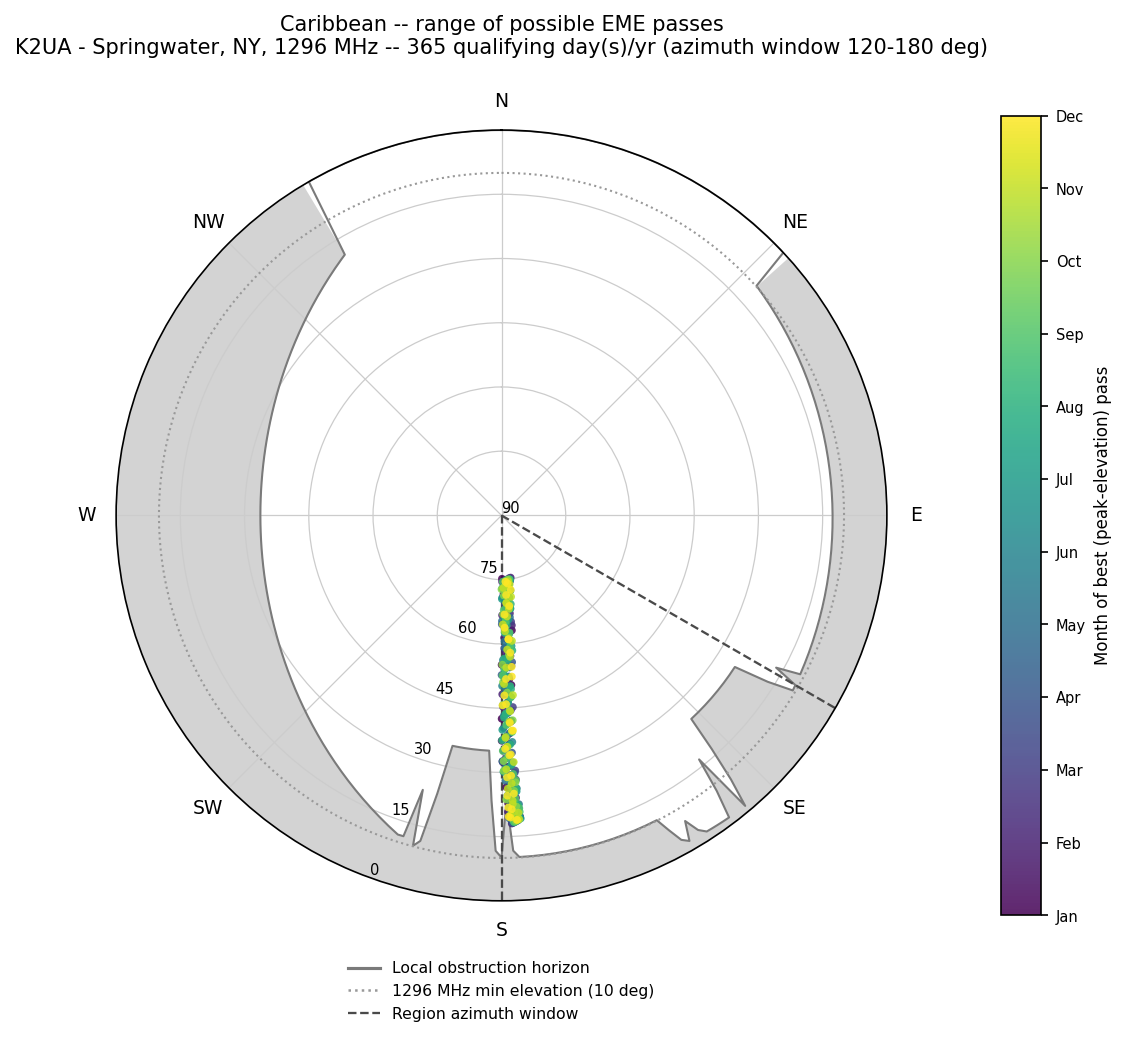
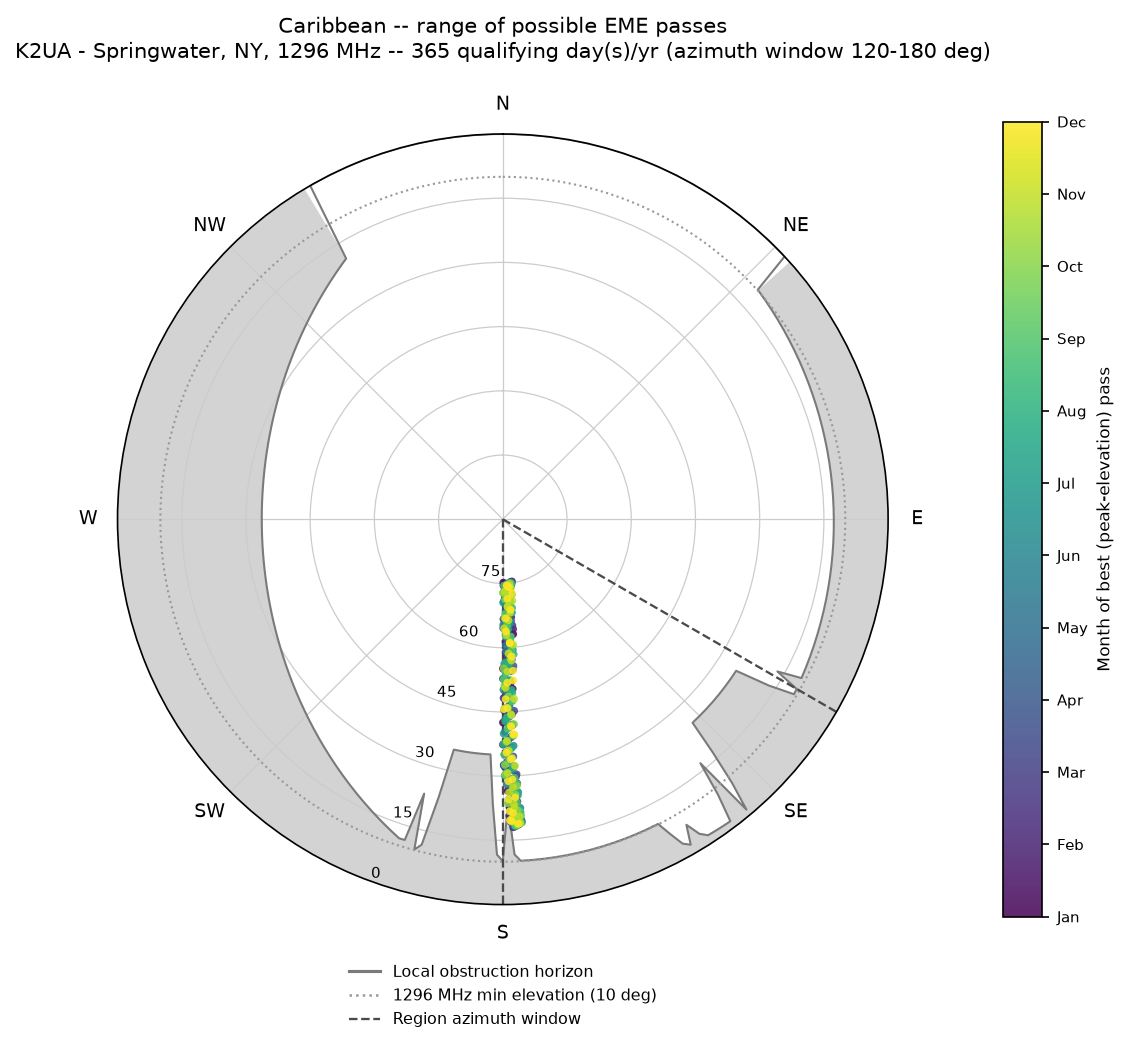
Add human-readable CLI summary as default output (v2.0.3)
Previously the CLI always printed the full JSON results blob to the
terminal, which was confusing when running without --output. Now:

- Plain terminal runs print a short format_summary() summary (site,
  band, passes/region, wind loading, RF, recommendations).
- --json forces the full JSON to stdout.
- Output is still auto-detected as JSON when stdout is piped/redirected
  (sys.stdout.isatty() check), so scripting/piping behavior is unchanged.
- --output <file> still saves full JSON and also prints the summary.

Added test_format_summary_contains_key_numbers_not_raw_json regression
test and documented the three output modes in README ("Reading the CLI
Output").

Also includes docs/plots/*.png regenerated locally (matplotlib
re-render, no underlying data change -- docs/monthly_conditions.md is
byte-identical).

diff --git a/src/eme_calculator.py b/src/eme_calculator.py
@@ -6,6 +6,7 @@ Modular library for calculating optimal EME dish placement
 
 import math
 import json
+import sys
 from datetime import datetime, timedelta
 from typing import Dict, List, Tuple, Optional
 import ephem
@@ -396,6 +397,56 @@ class EMECalculator:
         return recommendations
 
 
+def format_summary(results: Dict) -> str:
+    """Short, human-readable rendering of a results dict (see main()) --
+    the default terminal output. Pass --json or --output for the full
+    machine-readable JSON instead."""
+    loc = results['location']
+    lines = []
+    lines.append("EME Dish Siting Calculator -- Results Summary")
+    lines.append("=" * 48)
+    lines.append(f"Site: {loc['grid_square']}  "
+                  f"({loc['latitude']:.6f}, {loc['longitude']:.6f})  "
+                  f"{loc['elevation_m']:.1f} m ASL")
+    if loc['antenna_offset_east_ft'] or loc['antenna_offset_north_ft']:
+        lines.append(f"Antenna offset: {loc['antenna_offset_east_ft']:+.0f}ft E, "
+                      f"{loc['antenna_offset_north_ft']:+.0f}ft N of the profile location")
+    lines.append(f"Band: {results['band_mhz']} MHz   "
+                  f"Min. usable elevation: {results['min_elevation_deg']:.0f}°")
+    lines.append("")
+    lines.append("Annual EME opportunities by region:")
+    lines.append(f"  {'Region':<16}{'Passes/yr':>11}{'Avg peak el.':>15}")
+    for region, opp in results['eme_opportunities'].items():
+        avg_el = f"{opp['avg_peak_elevation_deg']:.1f}°" if opp['annual_passes'] else "--"
+        lines.append(f"  {region:<16}{opp['annual_passes']:>11}{avg_el:>15}")
+    lines.append("")
+    wl = results['wind_loading']
+    lines.append(f"Wind loading: {wl['force_lbf']:.1f} lbf at {wl['wind_speed_mph']:.0f} mph "
+                  f"(dish area {wl['dish_area_m2']:.2f} m²)")
+    rf = results['rf_considerations']
+    lines.append(f"RF ({rf['band_name']}, {rf['frequency_mhz']} MHz): "
+                  f"wavelength {rf['wavelength_cm']:.1f}cm, "
+                  f"tree sensitivity {rf['tree_sensitivity']}, "
+                  f"rain fade est. {rf['estimated_rain_fade_db']:.2f} dB")
+    if results['tree_blockage'].get('tree_height_ft', 0) > 0:
+        tb = results['tree_blockage']
+        lines.append(f"Single-direction tree blockage estimate: {tb['blockage_angle_deg']:.1f}° "
+                      f"({tb['tree_height_ft']:.0f}ft trees at {tb['tree_distance_ft']:.0f}ft)")
+    rec = results['recommendations']
+    if rec['reasoning'] or rec['technical_requirements']:
+        lines.append("")
+        lines.append("Recommendations:")
+        for item in rec['reasoning'] + rec['technical_requirements']:
+            lines.append(f"  - {item}")
+    lines.append("")
+    lines.append("Full monthly az/el detail is in this run's data but not shown here --")
+    lines.append("use --json or --output <file>.json for the complete breakdown, or:")
+    lines.append("  python scripts/generate_polar_plots.py --profile <profile> --band "
+                  f"{results['band_mhz']}")
+    lines.append("for polar plots + a monthly conditions table.")
+    return "\n".join(lines)
+
+
 def main():
     """Command line interface"""
     import argparse
@@ -427,7 +478,13 @@ def main():
                                               'the 1st of the current month) -- pin this for '
                                               'reproducible results, since Moon geometry '
                                               'shifts slightly with the exact date range')
-    parser.add_argument('--output', help='Output JSON file')
+    parser.add_argument('--output', help='Save the full results as JSON to this file '
+                                          '(a short summary still prints to the terminal too)')
+    parser.add_argument('--json', action='store_true',
+                         help='Print the full results as JSON to the terminal instead of '
+                              'the human-readable summary (useful for piping into other '
+                              'tools, e.g. `| jq`). Implied automatically if --output is not '
+                              'given and stdout is not a terminal (e.g. when piped/redirected).')
 
     args = parser.parse_args()
 
@@ -493,8 +550,15 @@ def main():
         with open(args.output, 'w') as f:
             json.dump(results, f, indent=2, default=str)
         print(f"Results saved to {args.output}")
-    else:
+        print()
+        print(format_summary(results))
+    elif args.json or not sys.stdout.isatty():
+        # Explicit --json, or stdout is piped/redirected (e.g. `| jq`,
+        # `> file.json`) rather than an interactive terminal -- assume
+        # the full machine-readable dump is wanted, not the summary.
         print(json.dumps(results, indent=2, default=str))
+    else:
+        print(format_summary(results))
 
 
 if __name__ == "__main__":

diff --git a/tests/test_eme_calculator.py b/tests/test_eme_calculator.py
@@ -10,7 +10,7 @@ from datetime import datetime
 sys.path.insert(0, os.path.join(os.path.dirname(__file__), '..', 'src'))
 
 import pytest
-from eme_calculator import EMECalculator
+from eme_calculator import EMECalculator, format_summary
 from terrain import TerrainProfile
 
 PROFILE_PATH = os.path.join(os.path.dirname(__file__), '..',
@@ -59,3 +59,48 @@ def test_maidenhead_roundtrip_reasonable():
     lat, lon = calc.maidenhead_to_latlon('FN12fr46wo')
     assert 42.7 < lat < 42.8
     assert -77.6 < lon < -77.5
+
+
+def test_format_summary_contains_key_numbers_not_raw_json():
+    # Regression test for the CLI-output confusion this fixed: the
+    # default terminal output should be a readable summary, not a JSON
+    # blob -- so it must not look like JSON, and it must mention every
+    # region and the wind loading figure.
+    terrain = TerrainProfile(PROFILE_PATH)
+    calc = EMECalculator(terrain_profile=terrain)
+    calc.setup_observer(terrain.latitude, terrain.longitude, terrain.elevation_ft * 0.3048)
+    start = datetime(2026, 1, 1)
+    daily_passes = calc.calculate_daily_passes(start, frequency_mhz=1296, days=30)
+    opportunities = calc.analyze_eme_opportunities(daily_passes)
+    monthly = calc.monthly_conditions(opportunities)
+    wind_loading = calc.calculate_wind_loading(2.4, 35)
+    rf = calc.calculate_rf_considerations(1296)
+    tree_blockage = calc.calculate_tree_blockage(0, 100)
+    results = {
+        'location': {
+            'grid_square': terrain.profile['grid_square'],
+            'latitude': terrain.latitude, 'longitude': terrain.longitude,
+            'elevation_m': terrain.elevation_ft * 0.3048,
+            'antenna_offset_east_ft': 0.0, 'antenna_offset_north_ft': 0.0,
+        },
+        'band_mhz': 1296,
+        'min_elevation_deg': calc.min_elevation_for_band(1296),
+        'eme_opportunities': {
+            region: {'annual_passes': len(passes),
+                      'avg_peak_elevation_deg': (sum(p['elevation'] for p in passes) / len(passes)
+                                                  if passes else 0)}
+            for region, passes in opportunities.items()
+        },
+        'monthly_conditions': monthly,
+        'wind_loading': wind_loading,
+        'rf_considerations': rf,
+        'tree_blockage': tree_blockage,
+    }
+    results['recommendations'] = calc.generate_recommendations(results)
+
+    summary = format_summary(results)
+
+    assert not summary.strip().startswith('{')
+    for region in EMECalculator.TARGET_REGIONS:
+        assert region in summary
+    assert f"{wind_loading['force_lbf']:.1f}" in summary

diff --git a/README.md b/README.md
@@ -46,6 +46,8 @@ python src/eme_calculator.py --grid FN12fr46 --band 1296
 ```
 The venv only needs creating once. Next time, just `cd` into the project and run `source venv/bin/activate` (or `venv\Scripts\activate` on Windows) again — the dependencies are already installed. Run `deactivate` when you're done. See [Virtual Environment Setup](#virtual-environment-setup) below for more detail, including why `venv/` and `.aws-sam/` never get committed.
 
+Running that last command in a real terminal prints a short human-readable summary (annual pass counts, wind loading, RF notes) — that's the calculator running an analysis and reporting back, not a bug. See [Reading the CLI output](#reading-the-cli-output) below for the other output modes.
+
 ### Analyzing a real site with a directional obstruction profile
 ```bash
 python src/eme_calculator.py \
@@ -53,6 +55,19 @@ python src/eme_calculator.py \
   --band 1296 --dish-diameter 2.4 --wind-speed 35 \
   --start-date 2026-01-01 --days 365
 ```
+This prints the same kind of summary as above, computed from the real obstruction-modeled site instead of a flat-horizon grid square. For the full monthly-by-region breakdown and the plots, use `scripts/generate_polar_plots.py` (see the [Case Study](#example-case-study-k2ua-station-fn12fr46wo) below) rather than trying to read it out of this command's output.
+
+### Reading the CLI output
+
+`src/eme_calculator.py` has three output modes:
+
+| You run it... | You get |
+|---|---|
+| Plainly, in a terminal (no `--output`/`--json`) | A short human-readable summary: pass counts per region, wind loading, RF notes |
+| With `--output results.json` | The summary printed to the terminal **and** the full results (including the monthly-by-region breakdown) saved as JSON to that file |
+| With `--json`, or piped/redirected (e.g. `... \| jq .`, `... > results.json`) | The full results as JSON on stdout, no summary |
+
+The full JSON is what `scripts/generate_polar_plots.py` consumes internally to build the plots and `docs/monthly_conditions.md` — you don't need to read it by hand unless you're scripting against it.
 
 ## Example Case Study: K2UA station, FN12fr46wo
 
@@ -296,6 +311,8 @@ This project is licensed under the MIT License - see the [LICENSE](LICENSE) file
 | 1.2.2 | 2026-08-18 | README revision |
 | **2.0.0** | **2026-08-20** | **Major revision.** Fixed a bug where `analyze_eme_opportunities()` counted every hourly sample within a region's azimuth window as a separate "pass," instead of one pass per calendar day — this let annual pass counts exceed 365 (physically impossible, the Moon rises once/day), which is what produced the case study's impossible 752 Caribbean / 499 South America / 617 Africa passes/year. Added `src/terrain.py`: direction-aware obstruction modeling combining operator-surveyed tree lines/clusters with a USGS EPQS-derived regional terrain floor, plus antenna-offset support for "what if I moved the dish" re-runs. Unified the minimum-usable-elevation threshold between `eme_calculator.py` and `rf_analysis.py` (previously two different hardcoded values, 10° flat vs. band-specific 5°-30°). Replaced the fictional FN12fr46 case study with the real K2UA station (FN12fr46wo), a full obstruction survey, USGS-sourced elevation, and corrected pass counts. Added polar az/el plots (`scripts/generate_polar_plots.py`, `docs/plots/`) and monthly peak-condition az/el tables (`docs/monthly_conditions.md`). Added `--start-date` for reproducible analysis windows. Added this Methodology & Limitations section and this Revision History. |
 | 2.0.1 | 2026-08-20 | Corrected the west hardwood treeline's modeled extent from a placeholder symmetric 300ft-each-way assumption to the operator's field estimate: an asymmetric row at least 800ft long, starting ~200ft north of the due-west line and running south. Added `along_line_start_ft`/`along_line_end_ft` support to `terrain.py` for asymmetric rows (kept `half_length_ft` working for symmetric ones, e.g. the east pine row). No region's annual pass count changed — see Methodology & Limitations. |
+| 2.0.2 | 2026-08-20 | Documentation only: local setup instructions (README Quick Start/Local Setup, DEPLOYMENT.md, PROJECT_STRUCTURE.md) now create and activate a Python virtual environment before `pip install`, instead of installing onto the system/Homebrew Python. Added a "Virtual Environment Setup" section to README.md. |
+| 2.0.3 | 2026-08-21 | `src/eme_calculator.py`'s CLI printed a large raw JSON dump to the terminal with no explanation of what it was, which read as broken rather than working as intended. Added `format_summary()` and made it the default terminal output (pass counts, wind loading, RF notes); the full JSON is now opt-in via `--json`, via `--output <file>` (which also still prints the summary), or automatically when stdout is piped/redirected rather than an interactive terminal. See [Reading the CLI Output](#reading-the-cli-output). |
 
 ## Acknowledgments
 
